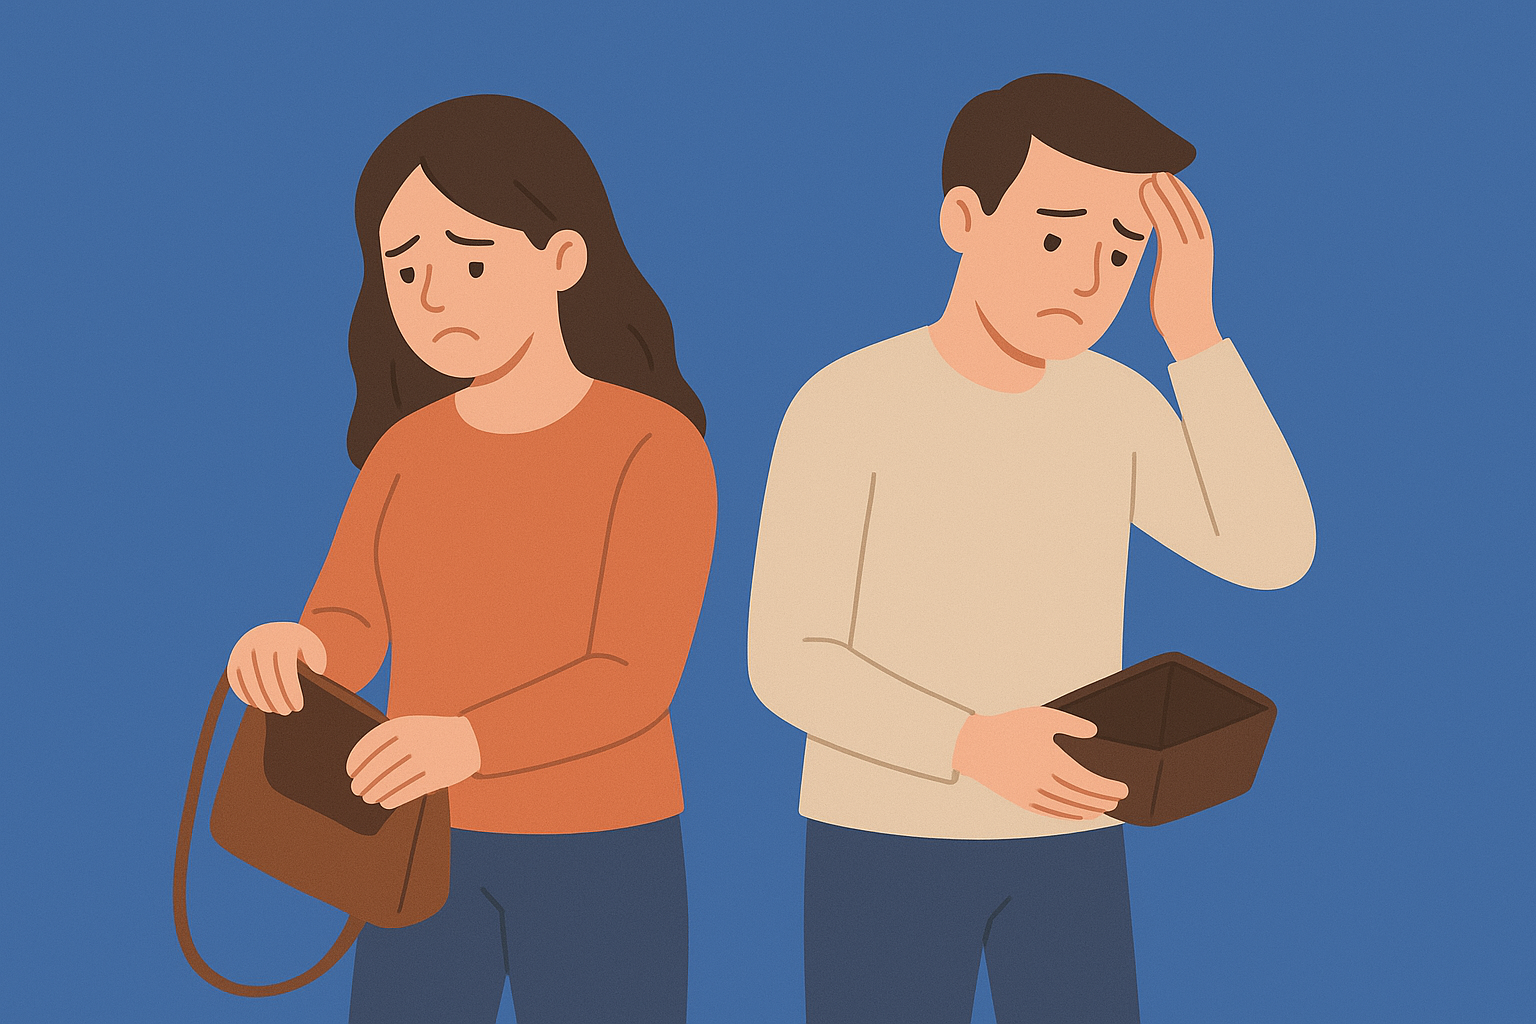
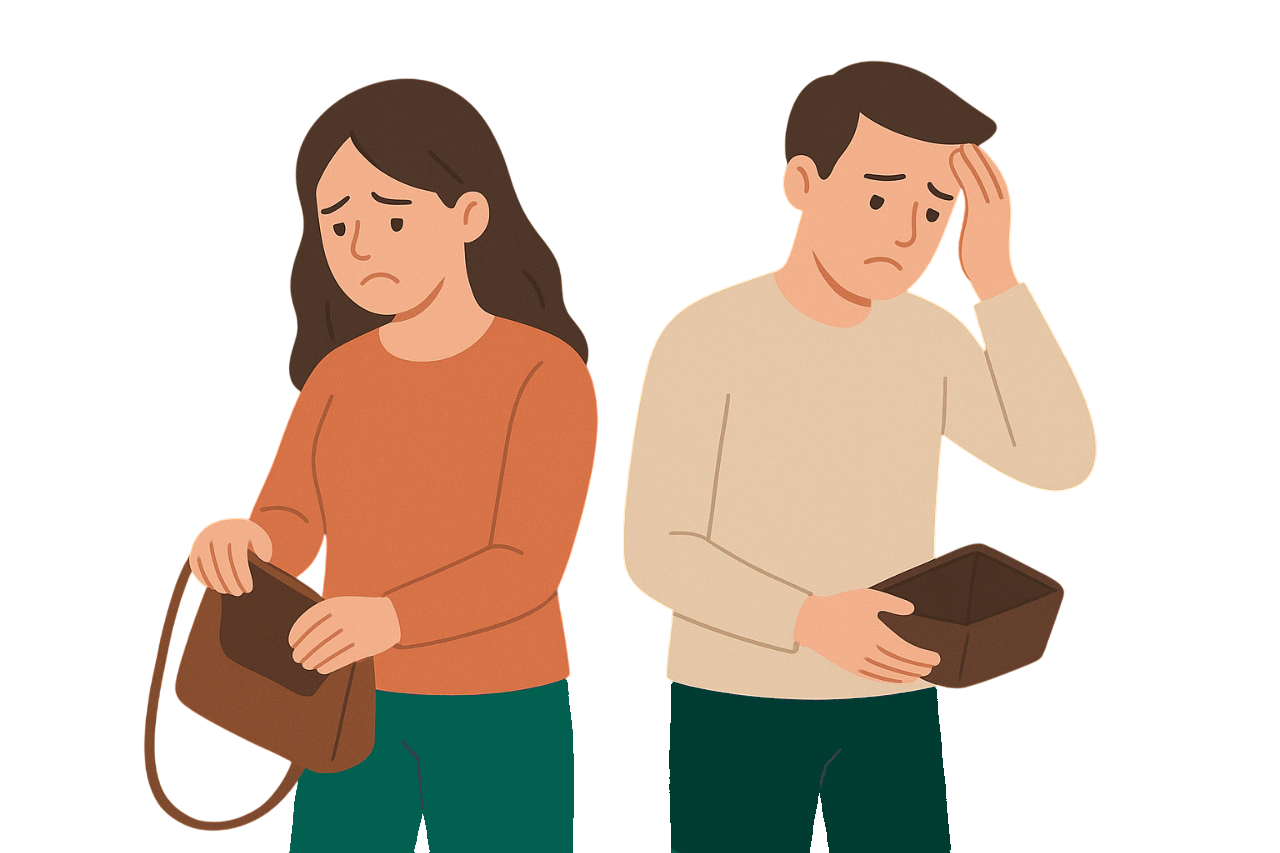
feat: Inicio da tela de cadastro

diff --git a/frontend/src/views/auth/CadastroView.vue b/frontend/src/views/auth/CadastroView.vue
@@ -1,36 +1,17 @@
 <template>
   <div class="grid grid-cols-1 md:grid-cols-2 h-screen">
     <!-- Coluna Esquerda -->
-    <div class="bg-primary-light text-white flex-col justify-center items-center p-10 text-center hidden md:flex">
-      <img src="../../assets/img/CasalFinanceiro3.png" class="w-[20em] md:w-[28em] lg:w-[35em] mb-6" alt="Imagem 1" />
-      <h2 class="text-2xl font-semibold">Olá, meu amigo!</h2>
-      <p class="mt-2 text-gray-200 max-w-md">
-        Organize suas finanças de um jeito simples e sem dor de cabeça.
-      </p>
-    </div>
-
-    <!-- Coluna Direita -->
-    <div class="flex flex-col items-center justify-center px-6 py-8 bg-white">
+    <div class="flex flex-col items-center justify-center px-6 py-5 bg-white">
       <!-- Logo -->
       <img src="../../assets/img/LogoZentavos.png" alt="Icone" class="w-14 mb-4" />
 
-      <!-- Título -->
-      <h1 class="font-bold text-primary-light text-3xl md:text-4xl text-center" style="font-family: 'Poppins', sans-serif;">
-        Seja bem-vindo ao Zentavos!
-      </h1>
-      <p class="text-gray-600 text-center my-4 max-w-sm">
-        Entre no Zentavos e organize o bolso sem perder a paz!
-      </p>
-
       <!-- Inputs -->
       <div class="w-full max-w-sm space-y-4">
+        <InputComponent v-model="nome" tipo="text" label="Nome" icon="badge" required/>
         <InputComponent v-model="email" tipo="email" label="E-mail" icon="mail" required/>
-
         <div class="w-full">
           <InputComponent v-model="senha" tipo="password" label="Senha" icon="password" required />
-          <p class="text-xs text-primary-light cursor-pointer hover:underline mt-1 text-left">
-            Esqueci minha senha
-          </p>
+          <InputComponent v-model="confirmarSenha" tipo="password" label="Confirmar senha" icon="password" class="mt-4" required />
         </div>
       </div>
 
@@ -38,8 +19,8 @@
       <div class="w-full max-w-sm mt-6 space-y-3">
         <button
           class="cursor-pointer w-full py-2 bg-primary-light text-white font-semibold rounded-lg shadow-md hover:bg-primary transition"
-          @click="login()">
-          Entrar
+          @click="cadastrar()">
+          Cadastrar-se
         </button>
 
         <button
@@ -64,11 +45,23 @@
 
       <!-- Link Cadastro -->
       <p class="mt-6 text-sm text-gray-700">
-        Ainda não tem uma conta?
-        <RouterLink to="/cadastro" class="text-primary-light font-medium hover:underline">Cadastrar-se</RouterLink>
+        Já possui uma conta?
+        <RouterLink to="/" class="text-primary-light font-medium hover:underline">Login</RouterLink>
+      </p>
+    </div>
+
+    
+    <!-- Coluna Esquerda -->
+    <div class="bg-primary-light text-white flex-col justify-center items-center p-10 text-center hidden md:flex">
+      <img src="../../assets/img/CasalFinanceiro2.png" class="w-[20em] md:w-[28em] lg:w-[35em] mb-6" alt="Imagem 1" />
+      <h2 class="text-2xl font-semibold">Olá, meu amigo!</h2>
+      <p class="mt-2 text-gray-200 max-w-md">
+        Organize suas finanças de um jeito simples e sem dor de cabeça.
       </p>
     </div>
   </div>
+
+  
 </template>
 
 <script setup lang="ts">
@@ -76,14 +69,24 @@ import { RouterLink } from 'vue-router'
 import InputComponent from '../../components/InputComponent.vue';
 import { ref } from 'vue'
 
+const nome = ref('')
 const email = ref('')
 const senha = ref('')
+const confirmarSenha = ref('')
 
-function login() {
-  if (email.value && senha.value) {
-    alert(`E-mail: ${email.value}\nSenha: ${senha.value}`)
+function cadastrar() {
+  if (email.value && senha.value && confirmarSenha.value && nome.value ) {
+    if(senha.value === confirmarSenha.value){
+      alert("Belezinha irmão! Tu criou tua continha")
+      nome.value = ""
+      email.value = ""
+      senha.value = ""
+      confirmarSenha.value = ""
+    } else {
+      alert("SENHA DIFERENTE CARALHO")
+    }
   } else {
-    console.error('Por favor, preencha todos os campos.')
+    alert('Por favor, preencha todos os campos.')
   }
 }
 </script>

diff --git a/frontend/tailwind.config.ts b/frontend/tailwind.config.ts
@@ -9,10 +9,10 @@ export default {
     extend: {
       colors: {
         primary: {
-          DEFAULT: "#14E2A4", // cor principal da logo
-          light: "#5CF5C4",   // variação clara
-          dark: "#0FA37A",    // variação escura
-          bg: "#002B29",      // fundo da logo
+          DEFAULT: "#005B41", // cor principal da logo
+          light: "#008170",   // variação clara
+          dark: "#232D3F",    // variação escura
+          bg: "#0F0F0F",      // fundo da logo
         },
       },
     },

diff --git a/frontend/src/router/index.ts b/frontend/src/router/index.ts
@@ -17,7 +17,7 @@ const router = createRouter({
     {
       path: '/cadastro',
       name: 'cadastro',
-      component: () => import('../views/auth/CadastroView copy.vue'),
+      component: () => import('../views/auth/CadastroView.vue'),
     },
   ],
 })
